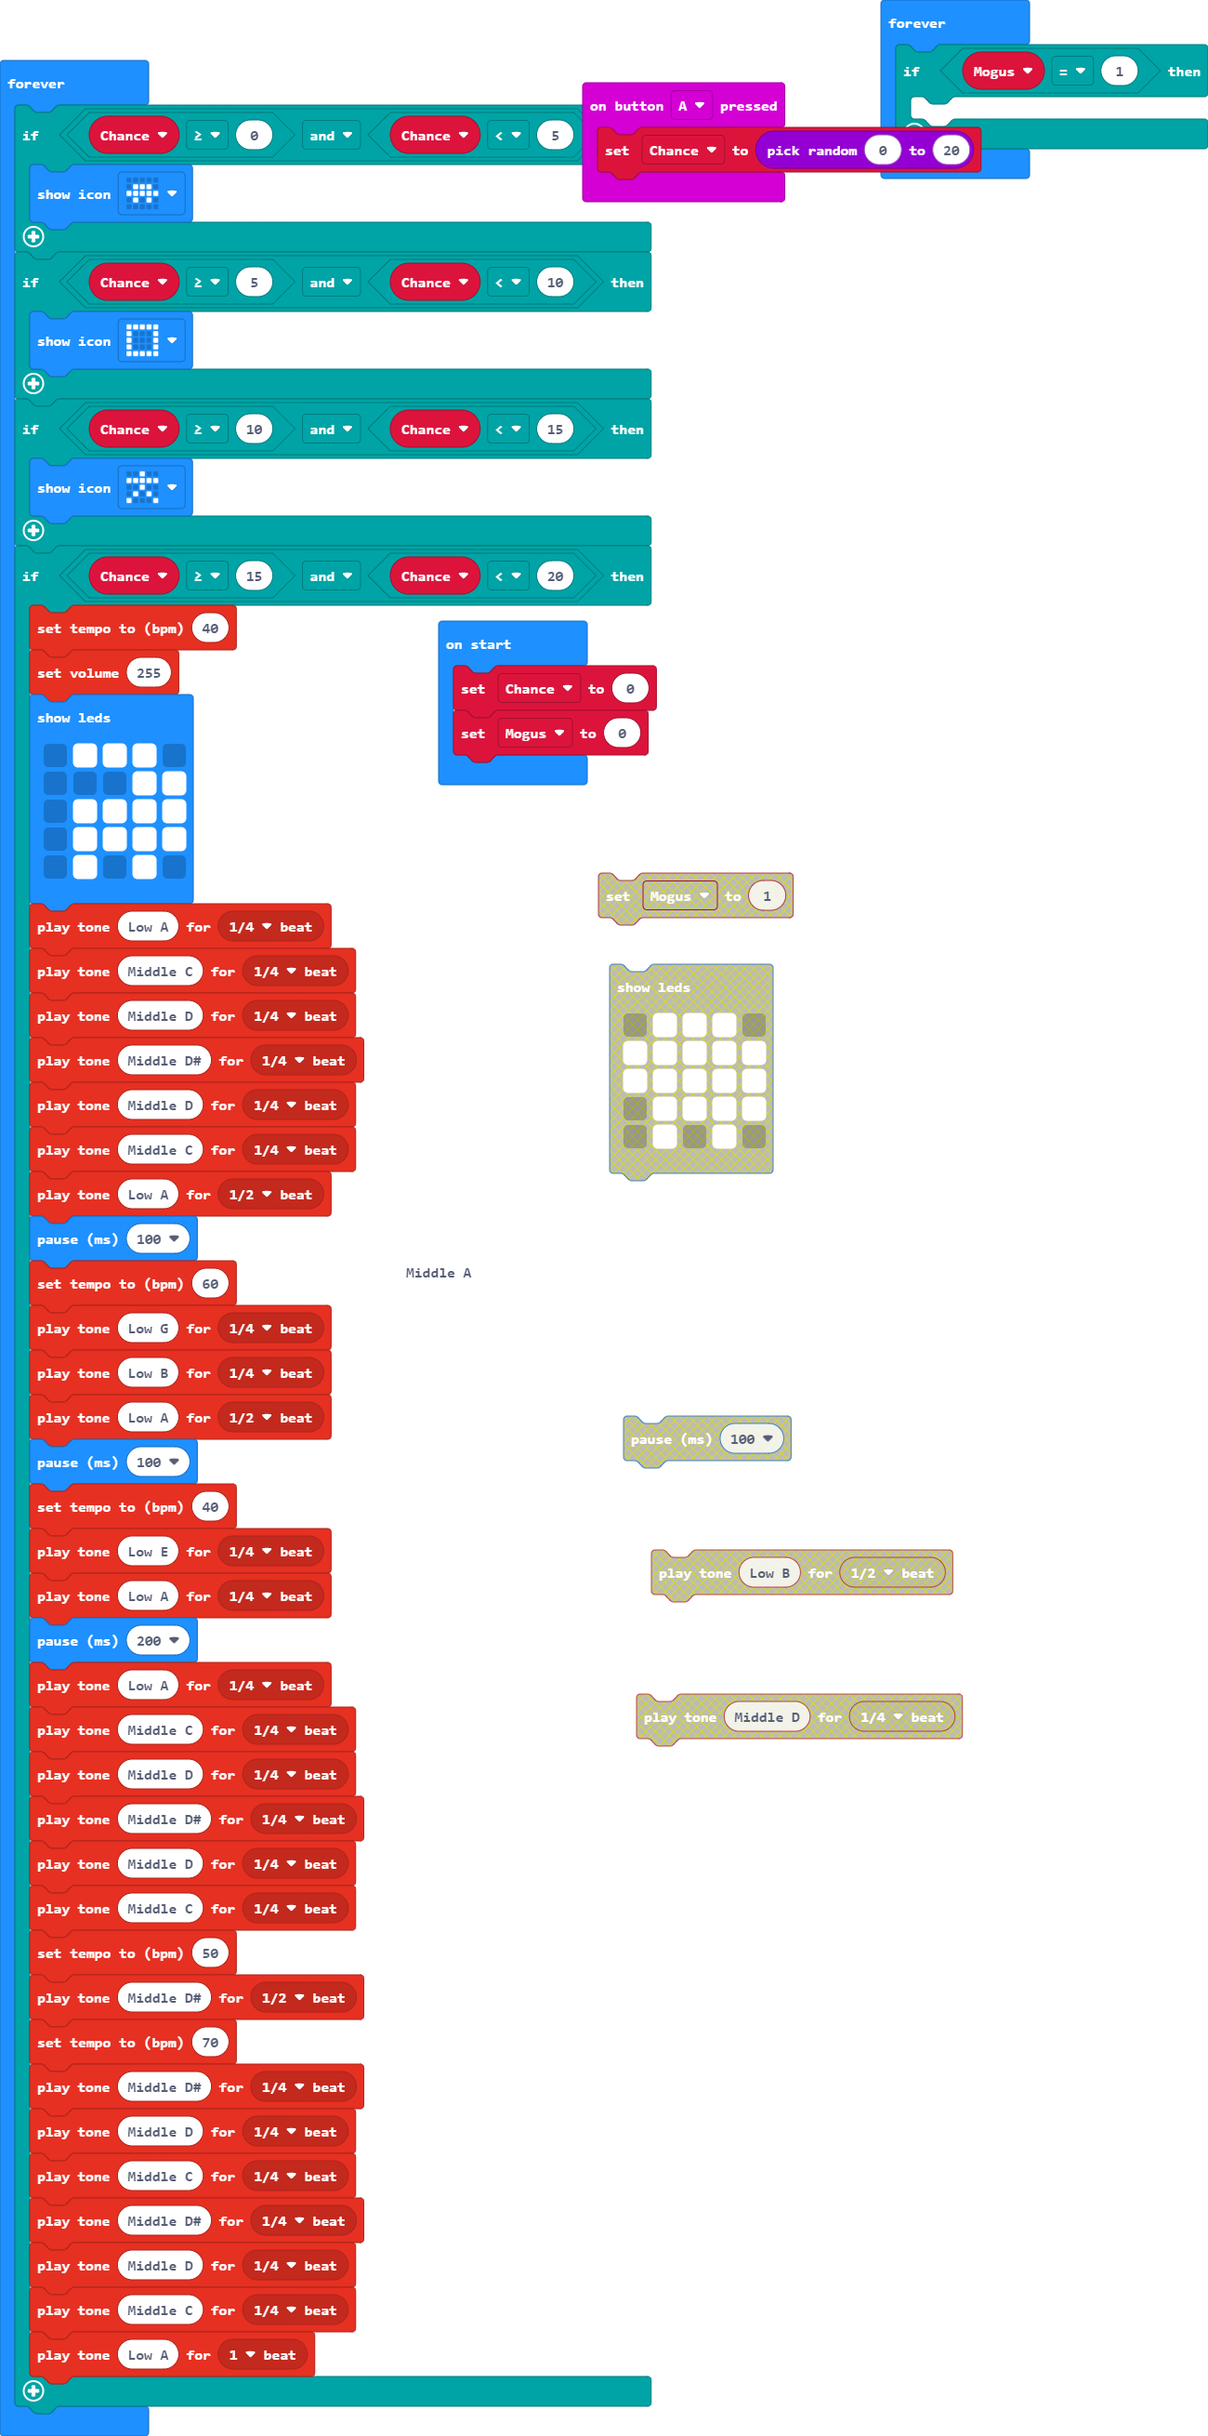
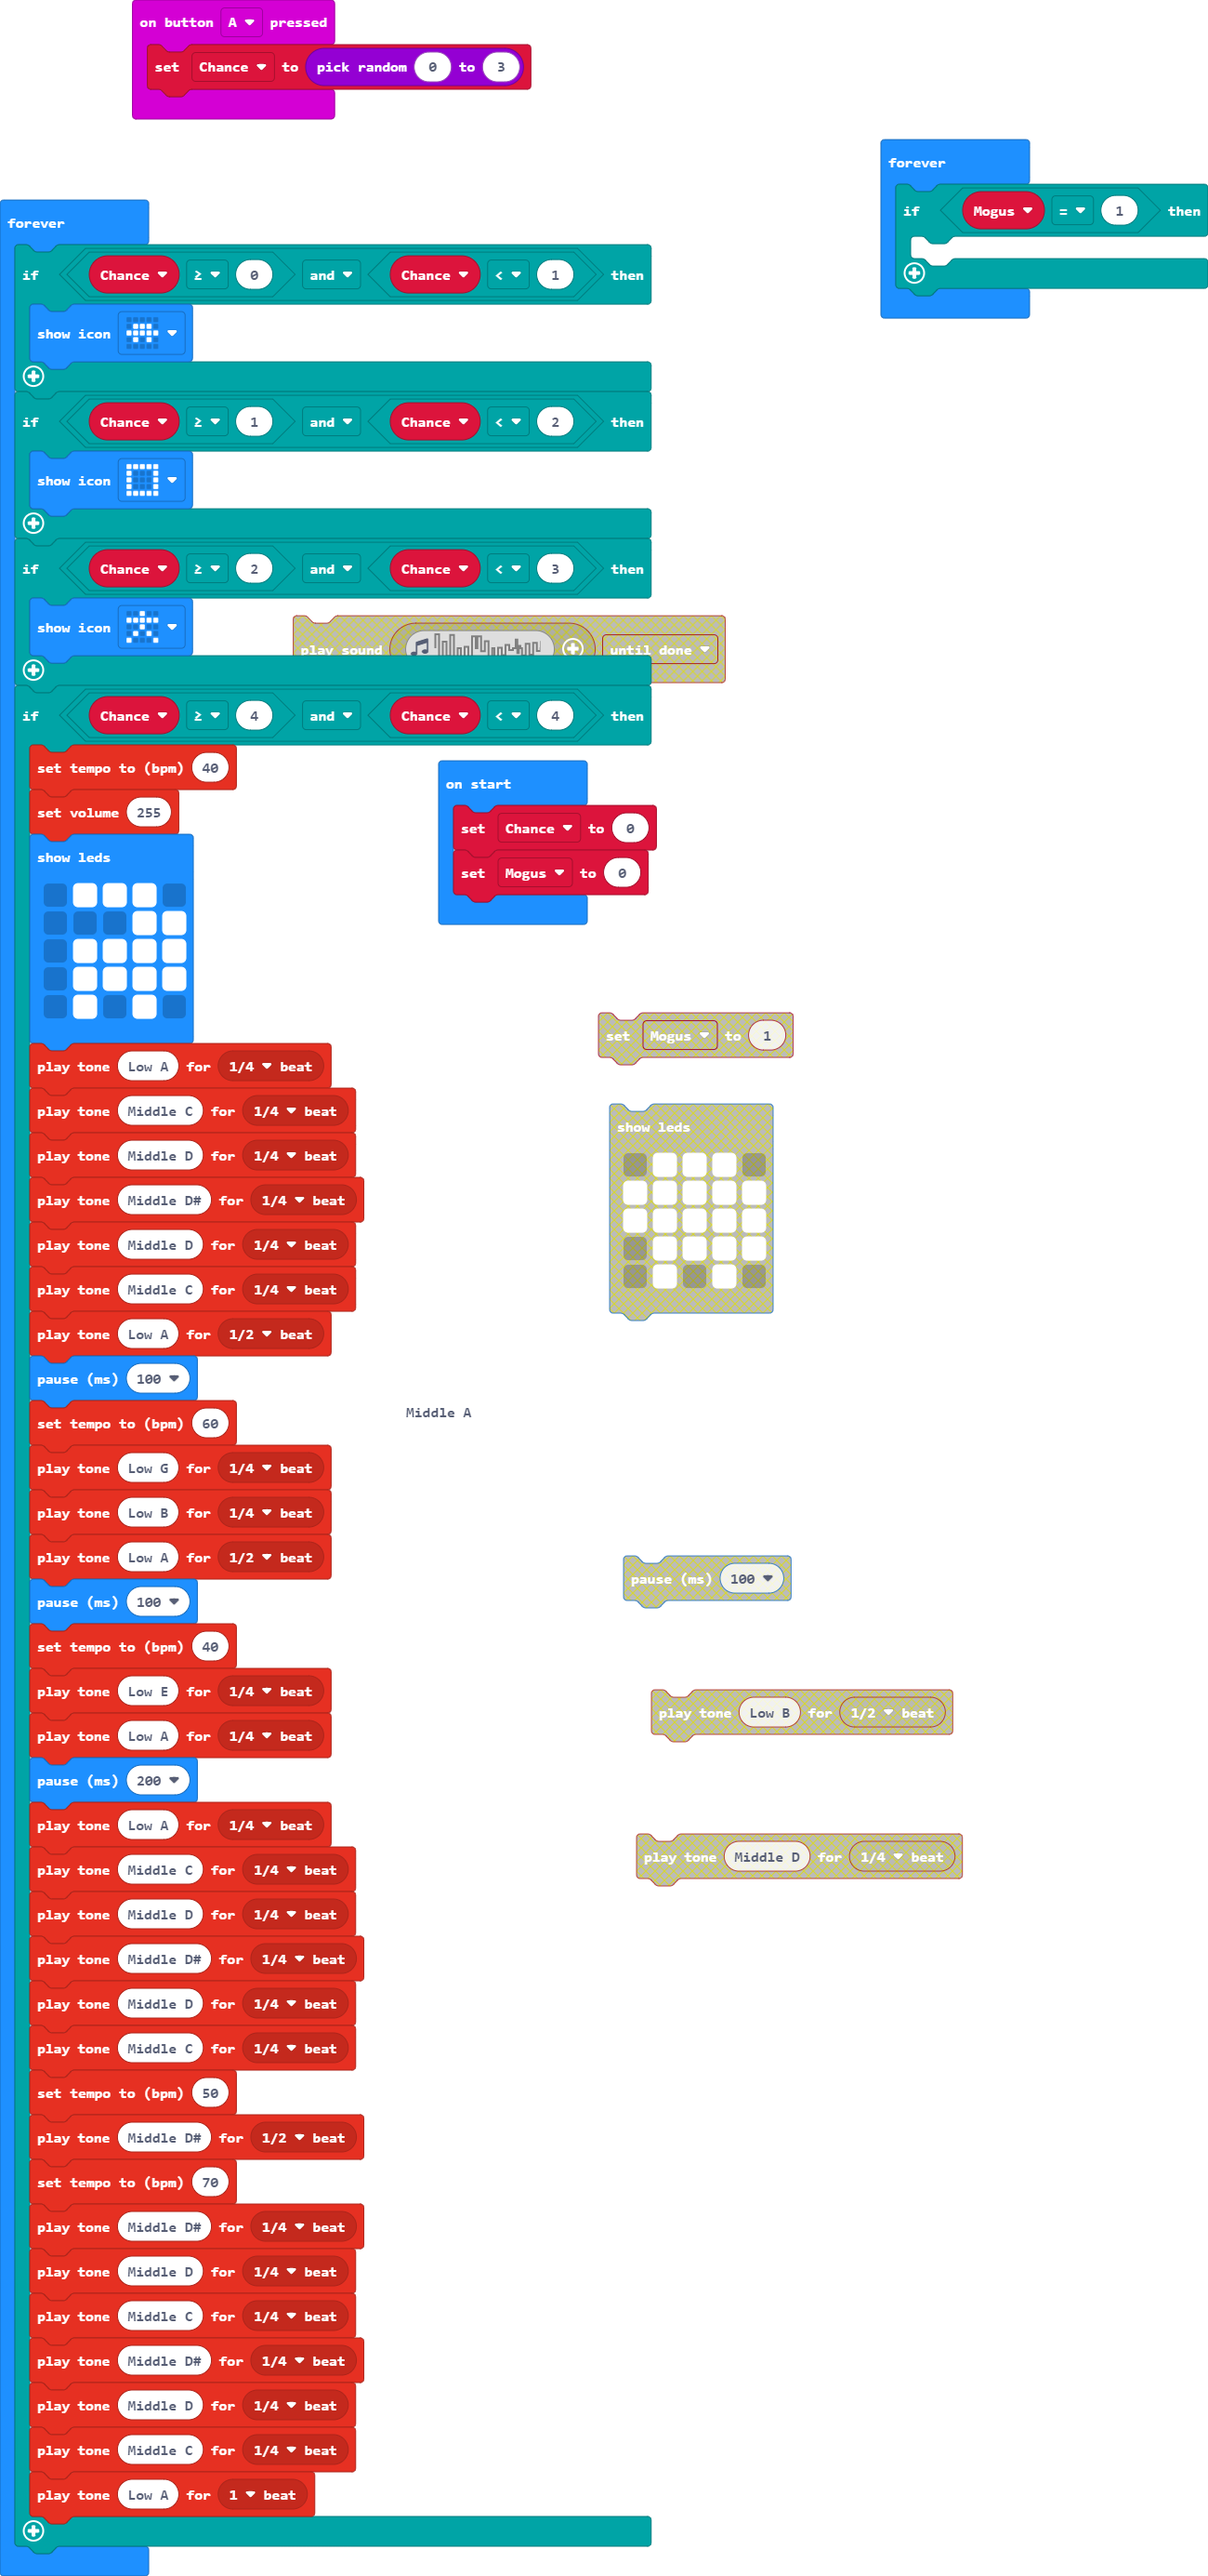
soos

Changed region(s): [[0.0, 0.0, 1.0, 0.9893], [0.4923, 0.5565, 0.8, 0.742]]

diff --git a/main.ts b/main.ts
@@ -1,5 +1,5 @@
 input.onButtonPressed(Button.A, function () {
-    Chance = randint(0, 20)
+    Chance = randint(0, 3)
 })
 let Chance = 0
 Chance = 0
@@ -10,16 +10,16 @@ basic.forever(function () {
     }
 })
 basic.forever(function () {
-    if (Chance >= 0 && Chance < 5) {
+    if (Chance >= 0 && Chance < 1) {
         basic.showIcon(IconNames.Tortoise)
     }
-    if (Chance >= 5 && Chance < 10) {
+    if (Chance >= 1 && Chance < 2) {
         basic.showIcon(IconNames.Square)
     }
-    if (Chance >= 10 && Chance < 15) {
+    if (Chance >= 2 && Chance < 3) {
         basic.showIcon(IconNames.StickFigure)
     }
-    if (Chance >= 15 && Chance < 20) {
+    if (Chance >= 4 && Chance < 4) {
         music.setTempo(40)
         music.setVolume(255)
         basic.showLeds(`
